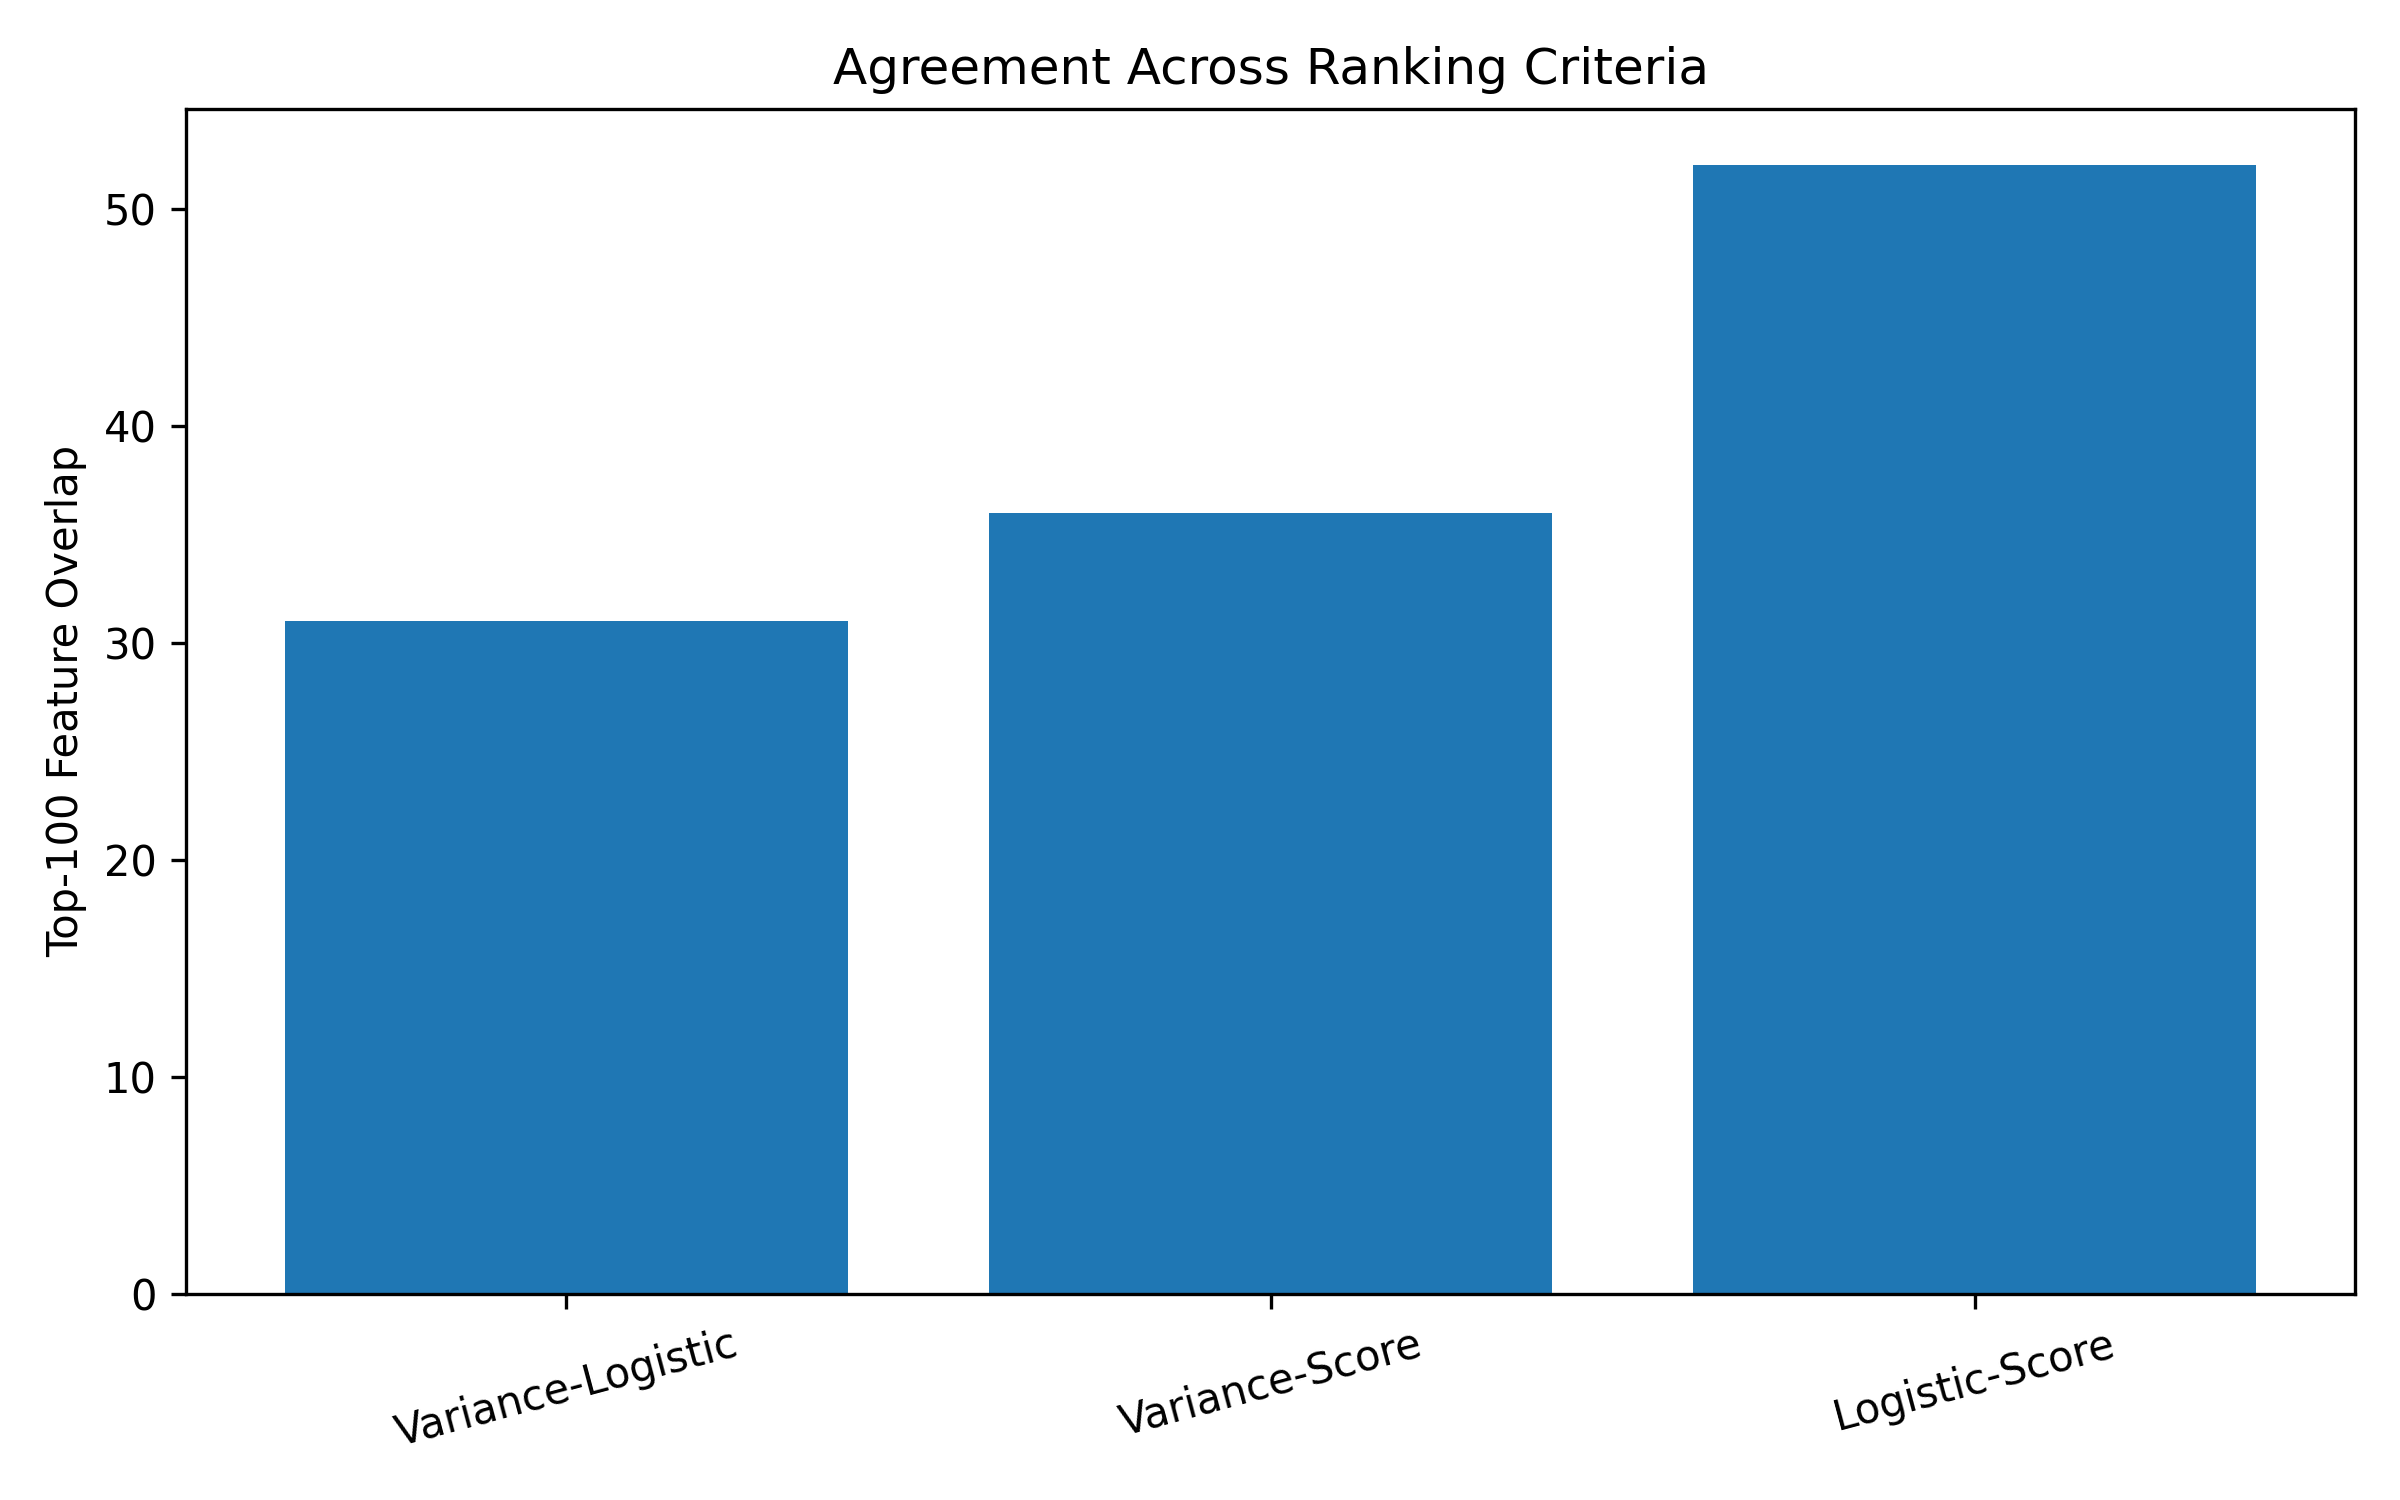
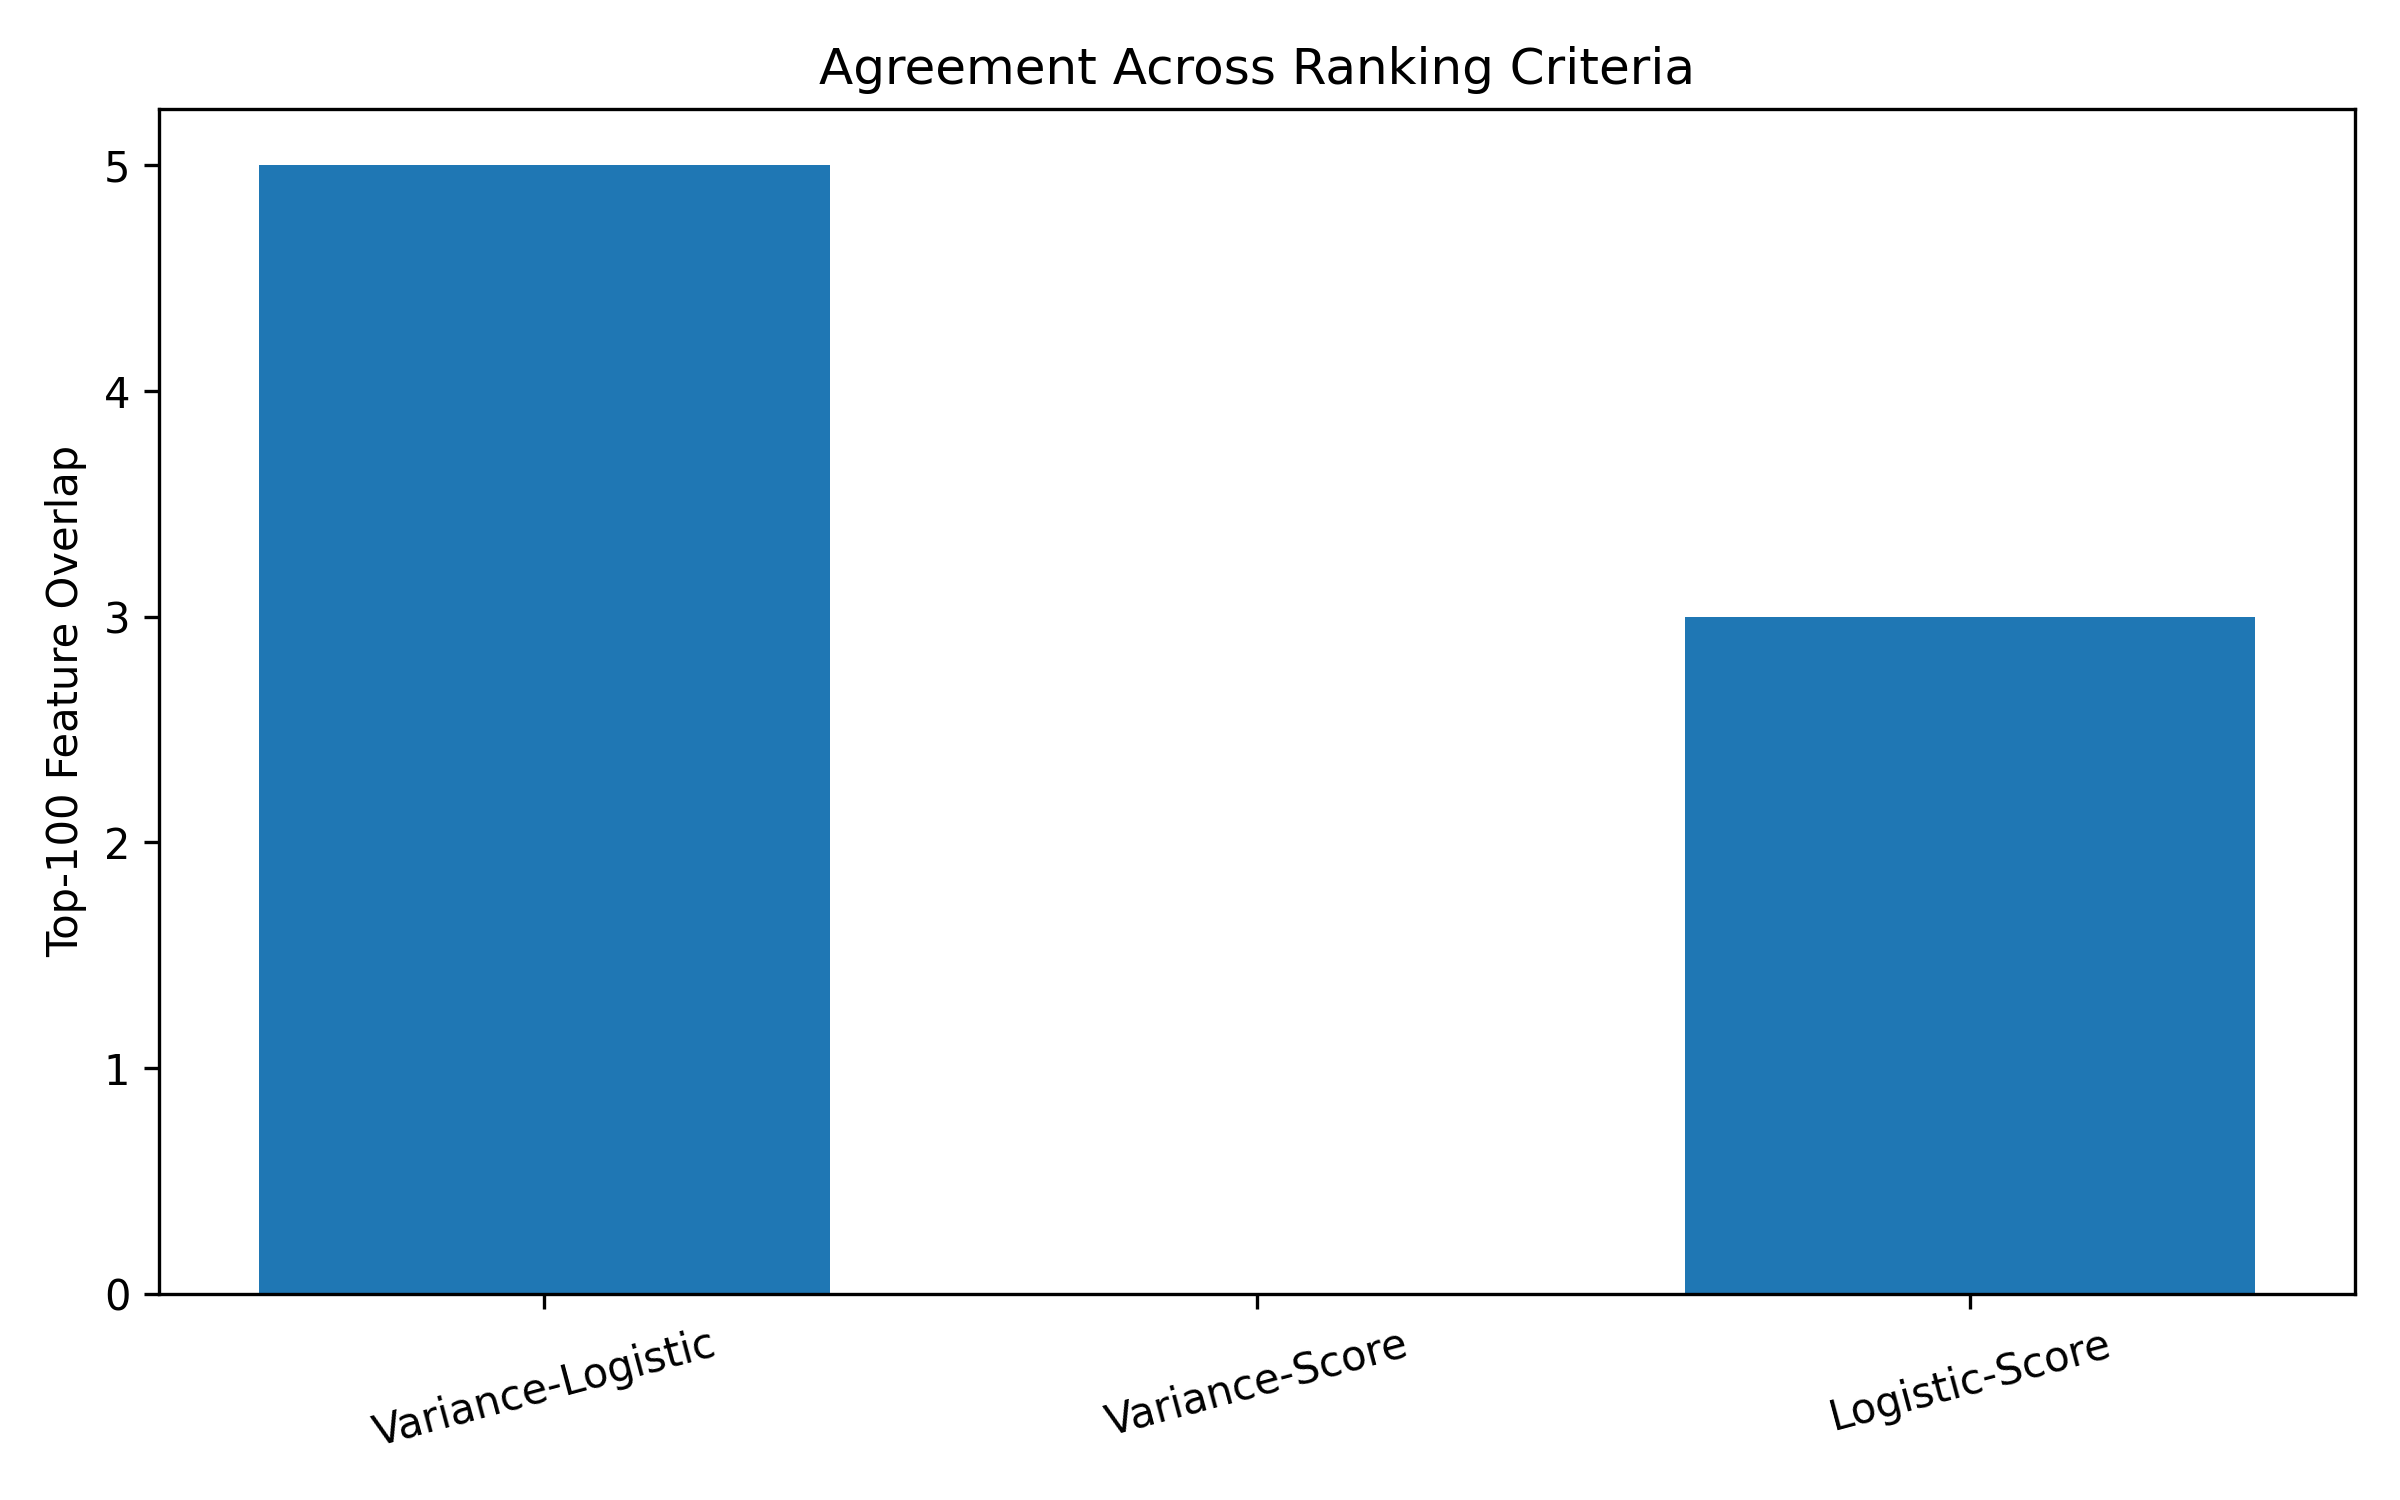
dataset

diff --git a/main.py b/main.py
@@ -35,7 +35,7 @@ class InterpBert:
         self.Y = None
         self.Z = None
 
-    def set_dataconfig(self,file_path = "IMDBDataset.csv", file_type = "csv", text_column = "review", label_column = "sentiment", max_length = 128):
+    def set_dataconfig(self,file_path = "Dataset/IMDBDataset.csv", file_type = "csv", text_column = "review", label_column = "sentiment", max_length = 128):
         print("Using dataset from: ", file_path)
         self.datacon = DatasetConfig(file_path, file_type, text_column, label_column, max_length)
 
@@ -180,7 +180,7 @@ def build_parser():
 
     # Dataset config
     parser.add_argument("--data", type=str,
-                        default="IMDBDataset.csv")
+                        default="Dataset/IMDBDataset.csv")
 
     parser.add_argument("--text-col", type=str, default="review")
     parser.add_argument("--label-col", type=str, default="sentiment")